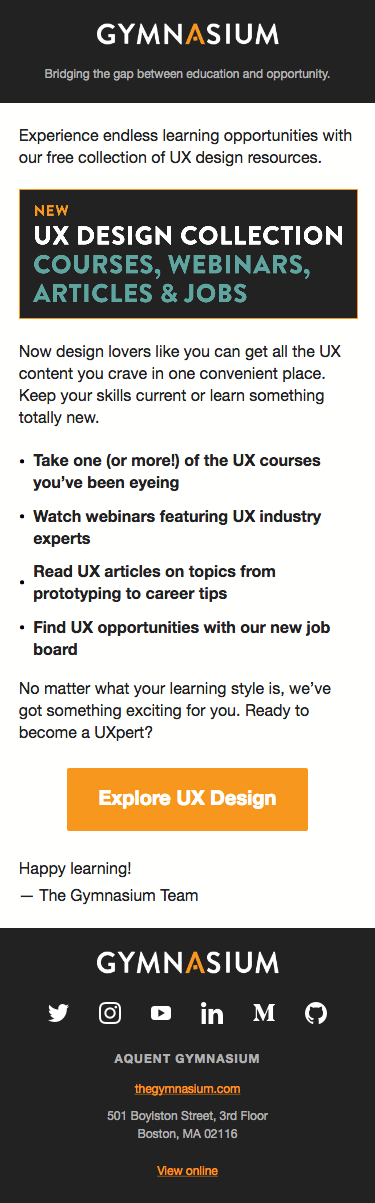
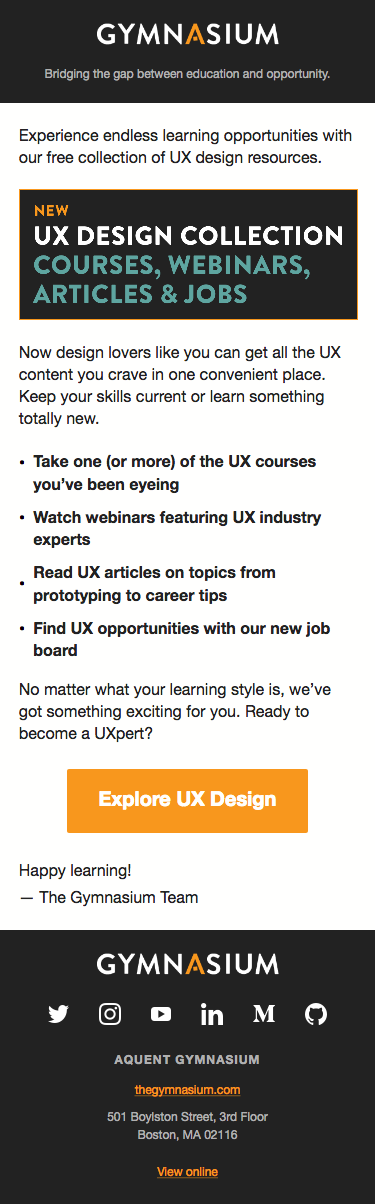
Update UX Design Landing Page email comp
Remove exclamation mark.

diff --git a/gym-emails/ux-design-landing-page-email/index.html b/gym-emails/ux-design-landing-page-email/index.html
@@ -67,7 +67,7 @@ table td {padding: 0;}
               <p style="font-family: 'Helvetica Neue', Helvetica, Arial, 'Droid Sans', sans-serif; font-weight: normal; font-size: 18px; line-height: 24px; color: #5222222; padding: 0; margin: 0;">&#8226;</p>
               </td>
               <td width="520" align="left" valign="top" style="padding: 0;">
-              <p style="font-family: 'Helvetica Neue', Helvetica, Arial, 'Droid Sans', sans-serif; font-weight: normal; font-size: 16px; line-height: 22px; color: #222222; padding: 0; margin: 0;"><b style="font-weight: bold;">Take one (or more!) of the UX courses you&#8217;ve been eyeing</b></p>
+              <p style="font-family: 'Helvetica Neue', Helvetica, Arial, 'Droid Sans', sans-serif; font-weight: normal; font-size: 16px; line-height: 22px; color: #222222; padding: 0; margin: 0;"><b style="font-weight: bold;">Take one (or more) of the UX courses you&#8217;ve been eyeing</b></p>
               </td>
             </tr>
             <tr>
